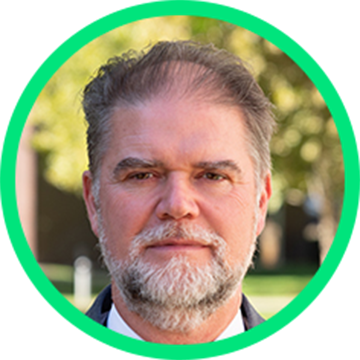
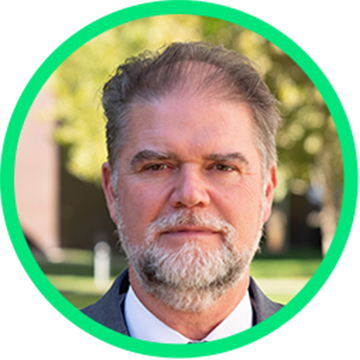
modify

diff --git a/index.html b/index.html
@@ -567,6 +567,22 @@ a{color:#00807d;}
     </td>
   </tr></table>
 </td></tr>
+<tr><td style="height:28px;line-height:28px;font-size:1px;mso-line-height-rule:exactly;">&nbsp;</td></tr>
+<!-- ===== CTA – a cikk linkjét a href="#CIKK_URL" helyére kell beírni (2 helyen: VML + HTML) ===== -->
+<tr><td align="center" style="padding:0 0 6px;">
+<!--[if mso]>
+<v:roundrect xmlns:v="urn:schemas-microsoft-com:vml" xmlns:w="urn:schemas-microsoft-com:office:word" href="#CIKK_URL" style="height:54px;v-text-anchor:middle;width:400px;" arcsize="19%" stroke="f" fillcolor="#00e47c">
+<w:anchorlock/>
+<center style="color:#08312a;font-family:Arial,Helvetica,sans-serif;font-size:19px;">Olvassa el a teljes cikket</center>
+</v:roundrect>
+<![endif]-->
+<!--[if !mso]><!-->
+<table role="presentation" cellpadding="0" cellspacing="0" border="0" align="center"><tr>
+<td bgcolor="#00e47c" align="center" valign="middle" style="background-color:#00e47c;border-radius:10px;padding:15px 30px;">
+<a href="#CIKK_URL" target="_blank" style="display:inline-block;font-family:'BoehringerForwardArabicVar',Arial,Helvetica,sans-serif;font-size:20px;line-height:24px;color:#08312a;text-decoration:none;white-space:nowrap;">Olvassa el a teljes cikket</a>
+</td></tr></table>
+<!--<![endif]-->
+</td></tr>
 </table>
 </td></tr>
 
